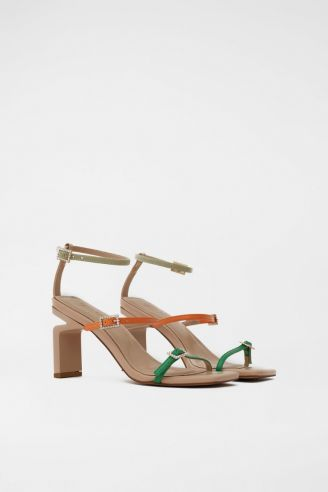
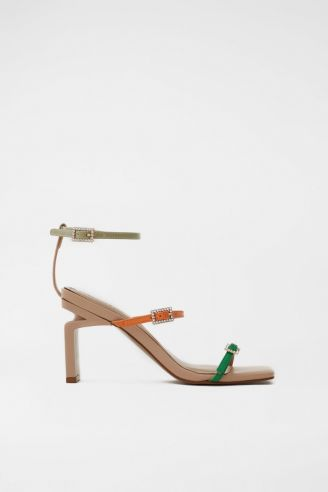
change img src directive in click-drag-carousel

Changed region(s): [[0.1524, 0.4573, 0.8537, 0.7927]]

diff --git a/docker-compose/frontend/src/app/shared/custom-carousel/custom-carousel.component.ts b/docker-compose/frontend/src/app/shared/custom-carousel/custom-carousel.component.ts
@@ -113,19 +113,19 @@ export class CustomCarouselComponent implements OnInit, OnDestroy {
   onPreviousClick() {
     const previous = this.currentSlide - 1;
     this.currentSlide = previous < 0 ? this.slides.length - 1 : previous;
-    console.log('previous clicked, new current slide is: ', this.currentSlide);
+    // console.log('previous clicked, new current slide is: ', this.currentSlide);
   }
 
   onNextClick(len: number) {
-    console.log(len);
+    // console.log(len);
     const next = this.currentSlide + 1;
     // this.currentSlide = next === this.slides.length  ? 0 : next;
     this.currentSlide = next === len ? 0 : next;
-    console.log('next clicked, new current slide is: ', this.currentSlide);
+    // console.log('next clicked, new current slide is: ', this.currentSlide);
   }
 
   slideShow() {
-    console.log('start');
+    // console.log('start');
 
     // setTimeout(() => {
     //   this.customCarouselService.onImagesLengthUpdate(this.slides.length);
@@ -138,8 +138,8 @@ export class CustomCarouselComponent implements OnInit, OnDestroy {
   }
 
   stopSlideShow() {
-    console.log('stop');
-    console.log(this.intervalId);
+    // console.log('stop');
+    // console.log(this.intervalId);
     clearInterval(this.intervalId!);
     this.intervalId = null;
     // this.intervalSubscription.unsubscribe();

diff --git a/docker-compose/frontend/src/app/shared/shared.module.ts b/docker-compose/frontend/src/app/shared/shared.module.ts
@@ -9,6 +9,8 @@ import { DragScrollModule } from 'ngx-drag-scroll';
 import { ConceptSentenceComponent } from 'src/app/shared/concept-sentence/concept-sentence.component';
 import { ClickDragCarouselComponent } from './click-drag-carousel/click-drag-carousel.component';
 import { CustomCarouselComponent } from './custom-carousel/custom-carousel.component';
+import { CustomClickDdragCarouselComponent } from './custom-click-ddrag-carousel/custom-click-ddrag-carousel.component';
+import { ActivateDirective } from './click-drag-carousel/activate.directive';
 
 @NgModule({
   declarations: [
@@ -16,6 +18,8 @@ import { CustomCarouselComponent } from './custom-carousel/custom-carousel.compo
     ConceptSentenceComponent,
     ClickDragCarouselComponent,
     CustomCarouselComponent,
+    CustomClickDdragCarouselComponent,
+    ActivateDirective,
   ],
   imports: [
     CommonModule,
@@ -31,6 +35,8 @@ import { CustomCarouselComponent } from './custom-carousel/custom-carousel.compo
     SlideCardsComponent,
     ClickDragCarouselComponent,
     CustomCarouselComponent,
+    CustomClickDdragCarouselComponent,
+    ActivateDirective,
   ],
 })
 export class SharedModule {}

diff --git a/docker-compose/frontend/src/app/shared/click-drag-carousel/click-drag-carousel.component.html b/docker-compose/frontend/src/app/shared/click-drag-carousel/click-drag-carousel.component.html
@@ -1,10 +1,18 @@
 <drag-scroll #nav [scrollbar-hidden]="true" class="hide-scrollbar">
   <div class="container--slider">
-    <img drag-scroll-item src="/assets/images/1.jpeg" />
+    <img
+      *ngFor="let porduct of products; let i = index"
+      drag-scroll-item
+      appActivate
+      [source]="products[i].src"
+      [src]="products[i].src"
+    />
+
+    <!-- <img drag-scroll-item src="/assets/images/1.jpeg" />
     <img drag-scroll-item src="/assets/images/2.jpeg" />
     <img drag-scroll-item src="/assets/images/3.jpeg" />
     <img drag-scroll-item src="/assets/images/4.jpeg" />
     <img drag-scroll-item src="/assets/images/5.jpeg" />
-    <img drag-scroll-item src="/assets/images/6.jpeg" />
+    <img drag-scroll-item src="/assets/images/6.jpeg" /> -->
   </div>
 </drag-scroll>

diff --git a/docker-compose/frontend/src/app/shared/click-drag-carousel/activate.directive.ts b/docker-compose/frontend/src/app/shared/click-drag-carousel/activate.directive.ts
@@ -1,0 +1,35 @@
+import {
+  Directive,
+  ElementRef,
+  HostListener,
+  Input,
+  Renderer2,
+} from '@angular/core';
+
+@Directive({
+  selector: '[appActivate]',
+})
+export class ActivateDirective {
+  constructor(private elementRef: ElementRef, private renderer: Renderer2) {}
+
+  @Input() source: string;
+
+  @HostListener('mouseenter', ['$event'])
+  activateDisplay(): void {
+    // console.log(this.source);
+
+    this.renderer.setAttribute(
+      this.elementRef.nativeElement,
+      'src',
+      this.source.replace('.jpeg', '-1.jpeg')
+    );
+  }
+  @HostListener('mouseout', ['$event'])
+  nonActiveDisplay(): void {
+    this.renderer.setAttribute(
+      this.elementRef.nativeElement,
+      'src',
+      this.source.replace('-1.jpeg', '.jpeg')
+    );
+  }
+}

diff --git a/docker-compose/frontend/src/app/shared/click-drag-carousel/click-drag-carousel.component.ts b/docker-compose/frontend/src/app/shared/click-drag-carousel/click-drag-carousel.component.ts
@@ -7,6 +7,33 @@ import { Component, OnInit, ViewChild } from '@angular/core';
 })
 export class ClickDragCarouselComponent implements OnInit {
   @ViewChild('nav') ds;
+  products = [
+    {
+      src: './assets/images/1.jpeg',
+      altSrc: '/assets/images/1-1.jpeg',
+    },
+    {
+      src: './assets/images/2.jpeg',
+      altSrc: '/assets/images/2-1.jpeg',
+    },
+    {
+      src: './assets/images/3.jpeg',
+      altSrc: '/assets/images/3-1.jpeg',
+    },
+    {
+      src: './assets/images/4.jpeg',
+      altSrc: '/assets/images/4-1.jpeg',
+    },
+    {
+      src: './assets/images/5.jpeg',
+      altSrc: '/assets/images/5-1.jpeg',
+    },
+    {
+      src: './assets/images/6.jpeg',
+      altSrc: '/assets/images/6-1.jpeg',
+    },
+  ];
+
 
   constructor() {}
 

diff --git a/docker-compose/frontend/src/app/shared/click-drag-carousel/click-drag-carousel.component.css b/docker-compose/frontend/src/app/shared/click-drag-carousel/click-drag-carousel.component.css
@@ -1,24 +1,13 @@
-@keyframes slide {
-  0% {
-    transform: translate3d(0, 0, 0);
-  }
-
-  100% {
-    transform: translate3d(-140rem, 0, 0);
-  }
-}
-
 .container--slider {
   width: 40rem;
   height: auto !important;
 }
 
-.container--slider img {
+.container--slider > img {
   cursor: pointer;
   height: 40rem;
   min-width: 30rem;
   margin-left: 10rem;
-  animation: slide 55s linear forwards;
 }
 
 .hide-scrollbar .drag-scroll-content {

diff --git a/docker-compose/frontend/src/app/shared/custom-click-ddrag-carousel/custom-click-ddrag-carousel.component.ts b/docker-compose/frontend/src/app/shared/custom-click-ddrag-carousel/custom-click-ddrag-carousel.component.ts
@@ -1,0 +1,15 @@
+import { Component, OnInit } from '@angular/core';
+
+@Component({
+  selector: 'app-custom-click-ddrag-carousel',
+  templateUrl: './custom-click-ddrag-carousel.component.html',
+  styleUrls: ['./custom-click-ddrag-carousel.component.css']
+})
+export class CustomClickDdragCarouselComponent implements OnInit {
+
+  constructor() { }
+
+  ngOnInit(): void {
+  }
+
+}

diff --git a/docker-compose/frontend/src/app/shared/custom-click-ddrag-carousel/custom-click-ddrag-carousel.component.html b/docker-compose/frontend/src/app/shared/custom-click-ddrag-carousel/custom-click-ddrag-carousel.component.html
@@ -1,0 +1,1 @@
+<p>custom-click-ddrag-carousel works!</p>
